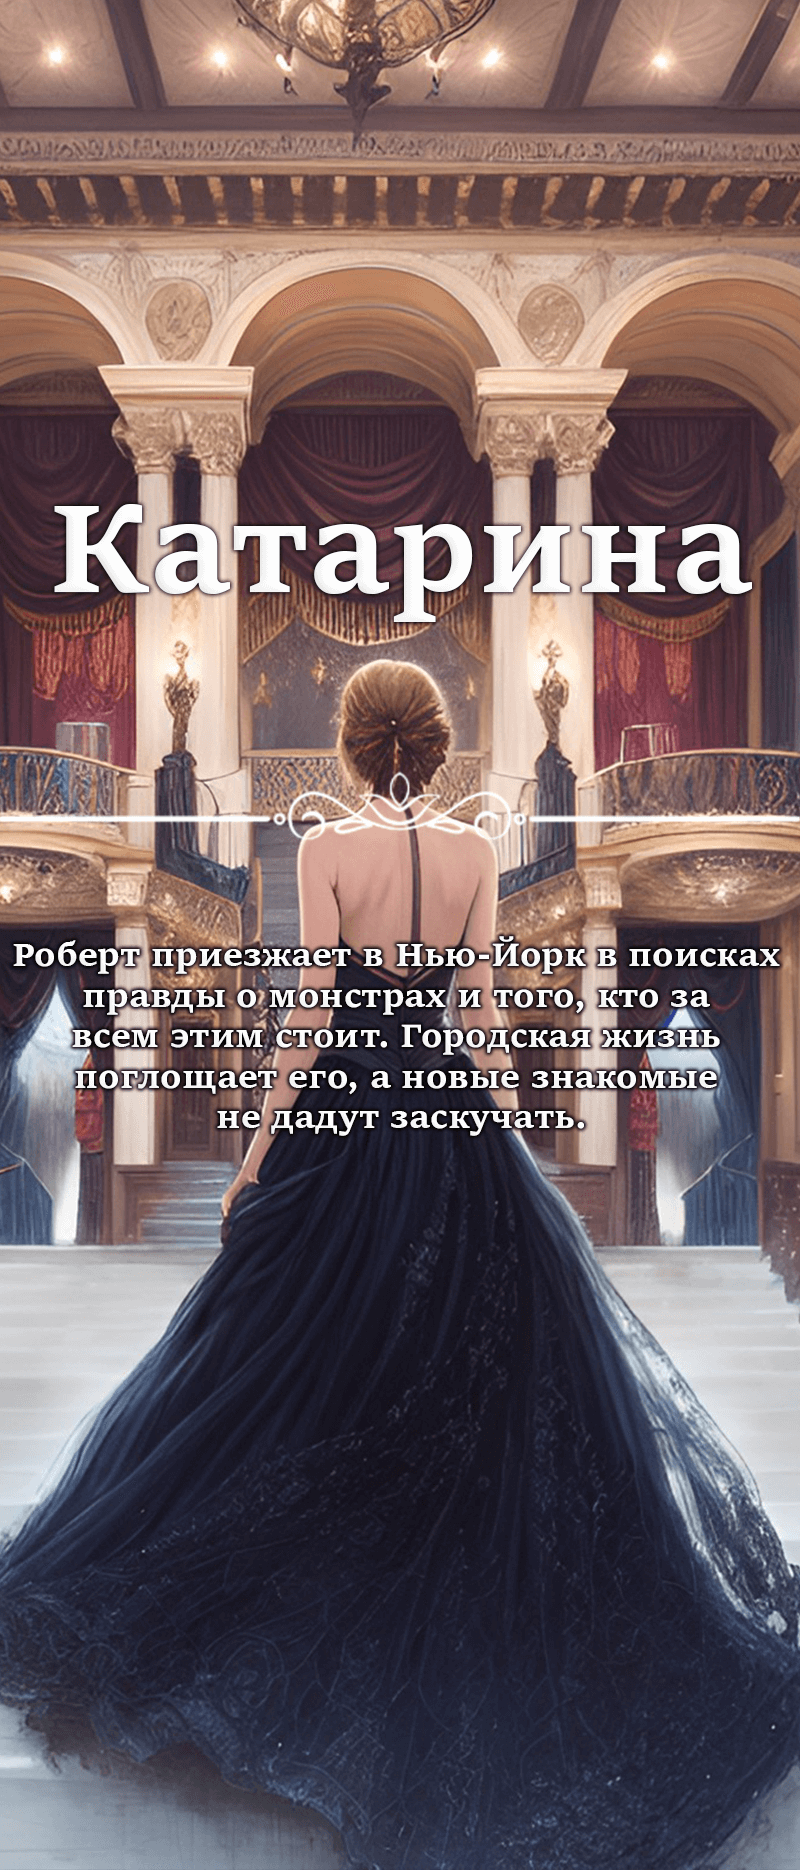
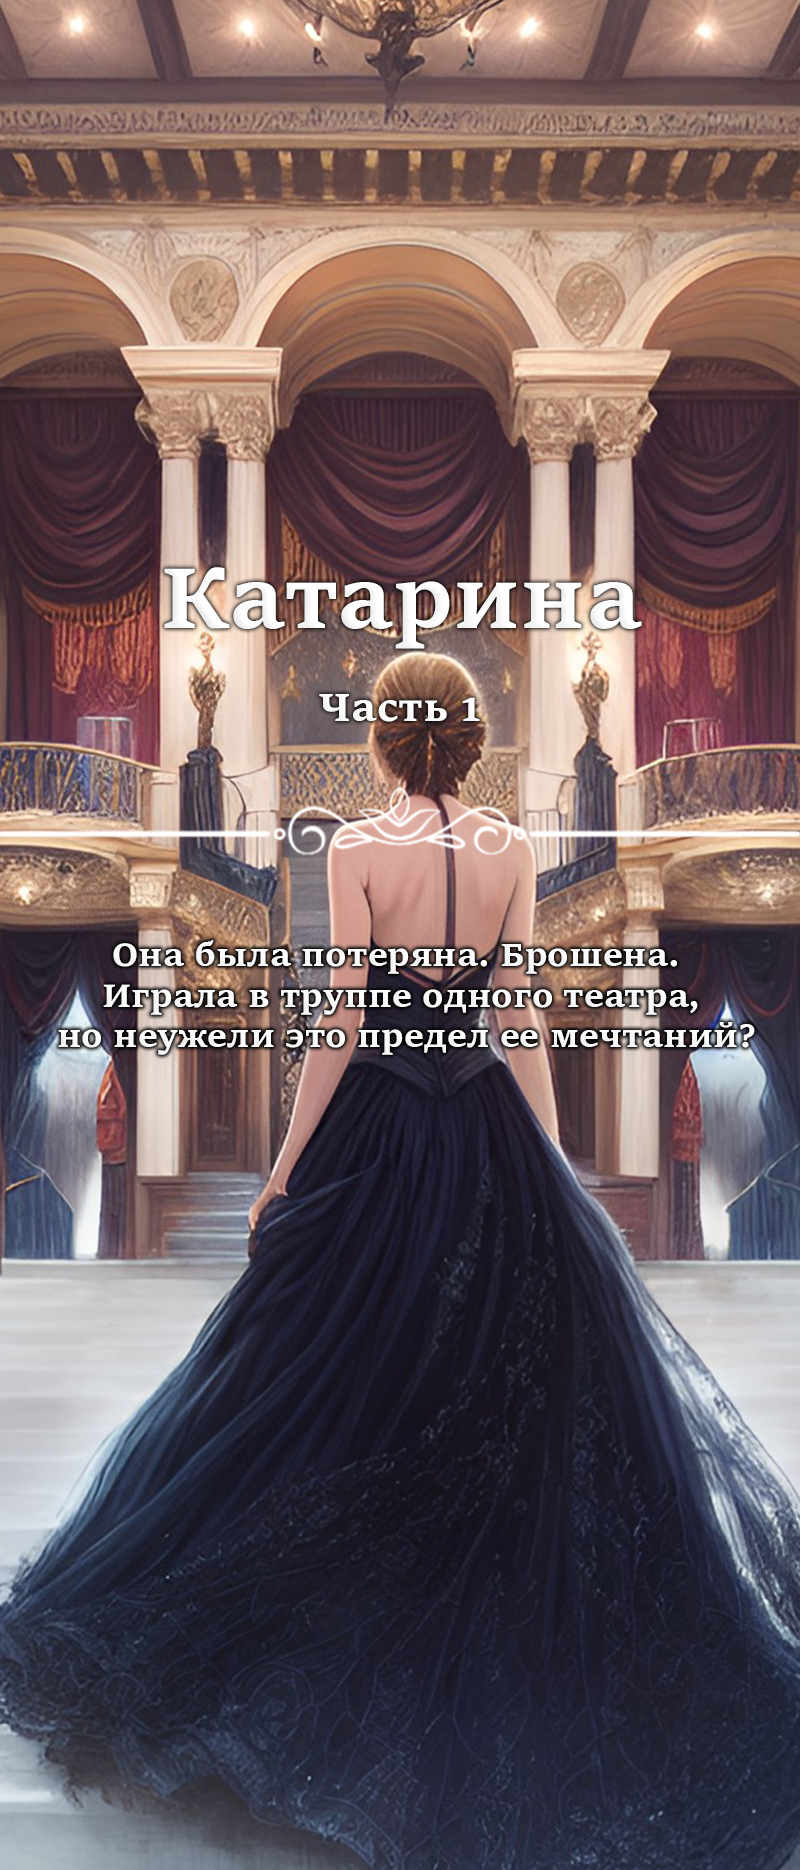
fixes

diff --git a/src/Stories/Katarina/scenarios/Chapter01/Prologue.ts b/src/Stories/Katarina/scenarios/Chapter01/Prologue.ts
@@ -2,7 +2,7 @@ import { saveEndProgress, scenarioManager } from '../../../../index'
 import { EStoriesEn } from '../../../../Utils/EStoriesNames'
 import { whiteFlash } from '../../../../Components/Slide/Slide'
 
-scenarioManager.addScenario({ storyName: EStoriesEn.Katarina, chapterName: 'Глава 1', partName: 'Пролог', code: '0' }, [
+scenarioManager.addScenario({ storyName: EStoriesEn.Katarina, chapterName: 'Глава 1', partName: 'Часть 1', code: '0' }, [
   {
     id: 0,
     text:
@@ -1616,7 +1616,7 @@ scenarioManager.addScenario({ storyName: EStoriesEn.Katarina, chapterName: 'Гл
       {
         text: '',
         func: () => {
-          saveEndProgress('Katarina', 'Глава 1', 'Часть 1', '0')
+          saveEndProgress('Katarina', 'Глава 1', 'Часть 2', '0')
         }
       }],
     achievement: { story: EStoriesEn.Katarina, name: 'PrologueCompleted' },

diff --git a/src/Stories/Katarina/story.ts b/src/Stories/Katarina/story.ts
@@ -15,7 +15,7 @@ storiesManager.add({
       image: require('../../Images/Katarina/Backgrounds/Theatre_Scene.jpg'),
       parts: [
         {
-          name: 'Пролог',
+          name: 'Часть 2',
           code: '0',
           image: require('../../Images/Katarina/Backgrounds/NY.jpg'),
           loadingImage: require('../../Images/Katarina/Covers/Prologue_LS.png'),
@@ -24,7 +24,7 @@ storiesManager.add({
           }
         },
         /*{
-          name: 'Часть 1',
+          name: 'Часть 2',
           code: '0',
           image: require('../../Images/Immortals/Backgrounds/Lection_Hall.jpg'),
           loadingImage: require('../../Images/Immortals/Covers/Part01.png'),
